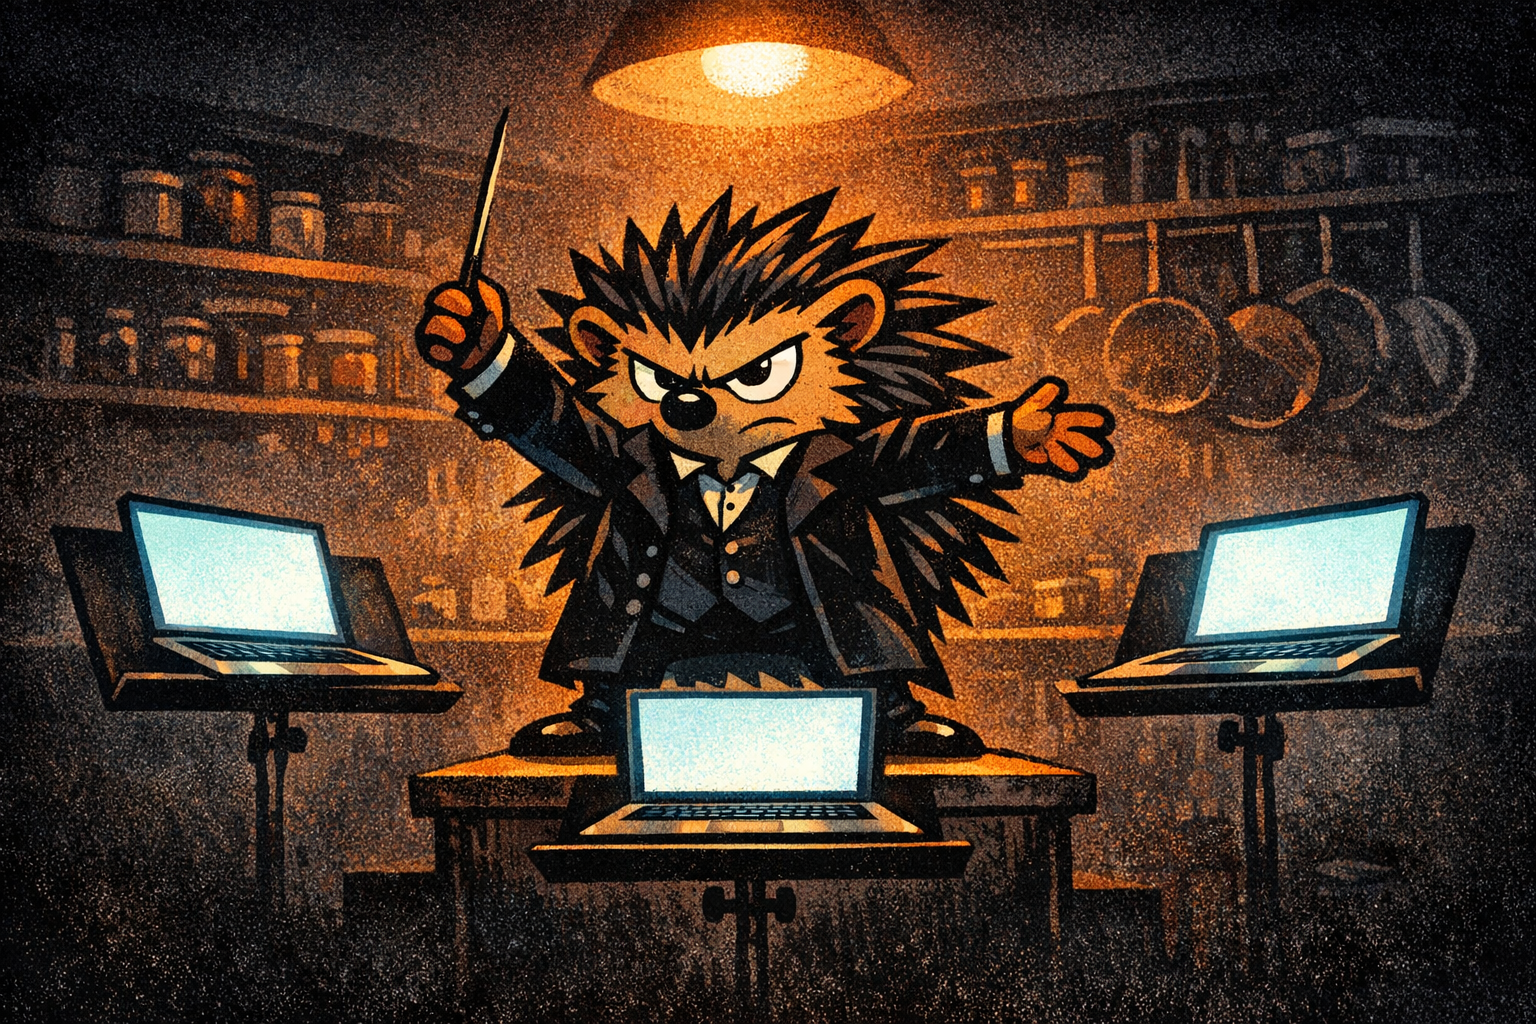
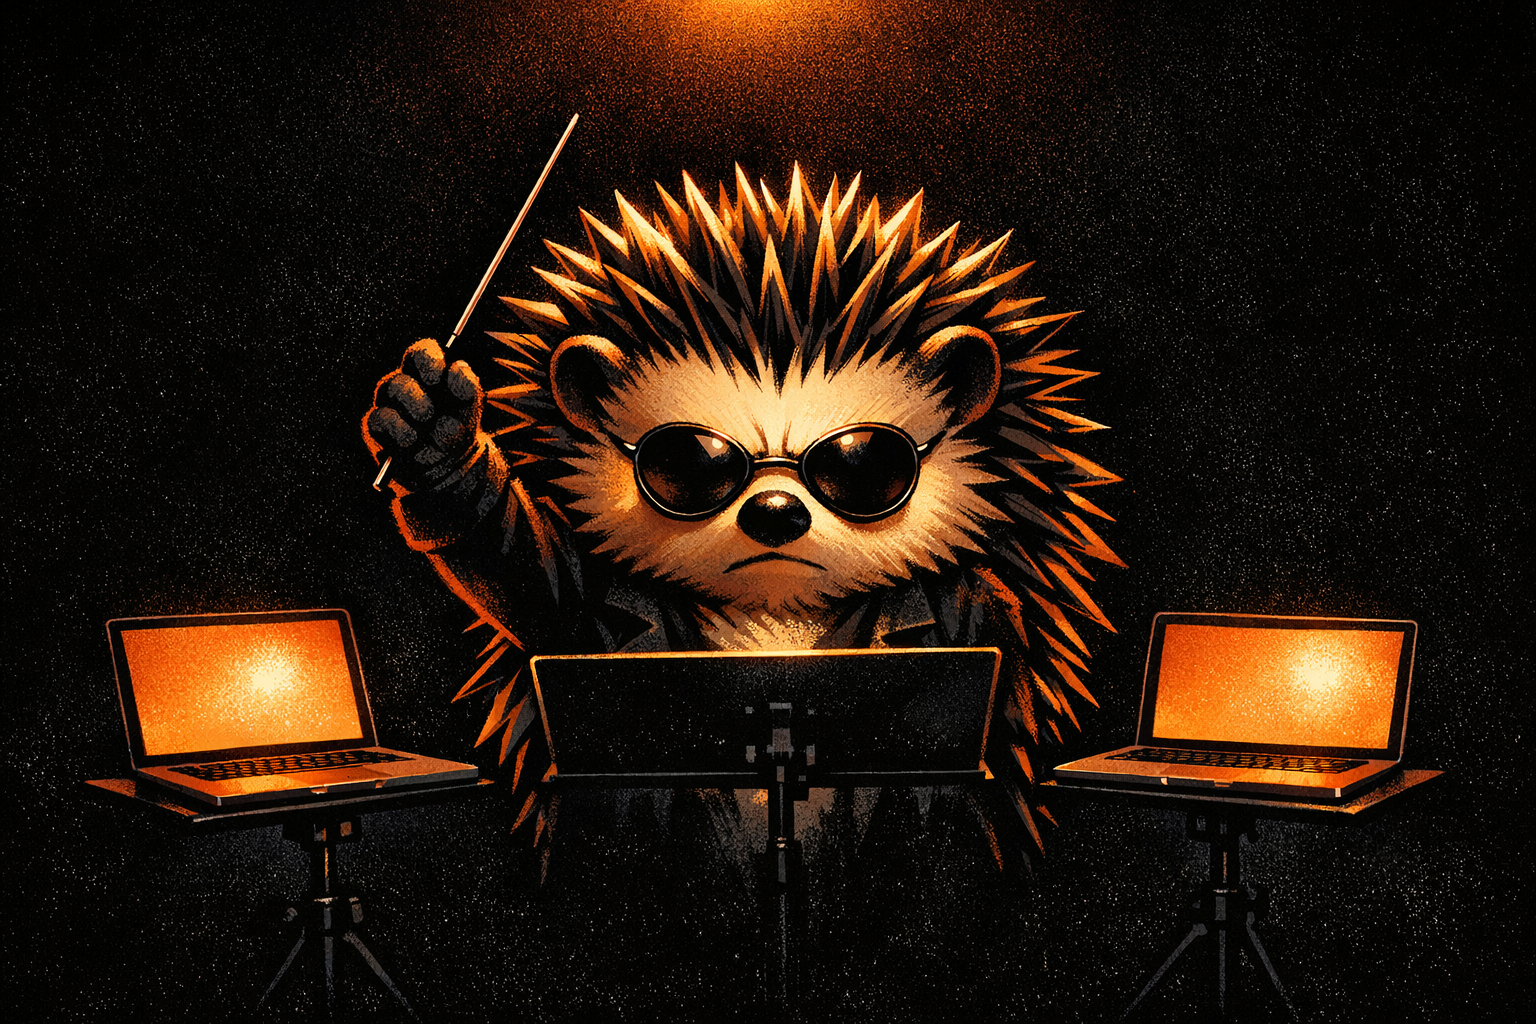
feat(guide): новый hero с референсом аватара + TL;DR-спойлер
Hero v4:
- использован референс docs/assets/preview/hog-avatar.png через --image=<path>
- фирменные чёрные очки, характерная форма — узнаваемый персонаж канала
- нейтральный editorial фон (не кухня, как просил Владимир)
- 3 ноутбука на пюпитрах — все видны
- warm orange rim-light сверху — magazine-cover feel

TL;DR-спойлер в начало:
- «Лень читать всё? TL;DR на 30 секунд» expandable
- Даёт выжимку решения в 6 пунктах
- Плюс «а если не лень — читай дальше» с интригой: 4 случая когда связка не нужна, 3 грабли установки, 5 сценариев, тренд
- Читатель получает сразу пользу + зацепку прочитать целиком

diff --git a/docs/knowledge/choose-agent.md b/docs/knowledge/choose-agent.md
@@ -10,7 +10,24 @@ tags:
 
 # Платишь за один ИИ — теряешь половину силы. Вот как собрать все три за те же деньги
 
-![Ёж-дирижёр за пультом с тремя пюпитрами — Claude, Codex, Gemini](../assets/preview/cover-hedgehog-conductor.png)
+![Ёж-дирижёр в чёрных очках с палочкой и тремя ноутбуками на пюпитрах — Claude, Codex, Gemini](../assets/preview/cover-hedgehog-conductor.png)
+
+??? abstract "Лень читать всё? TL;DR на 30 секунд 👇"
+    **Главный вывод, чтобы закрыть и не терять время:**
+
+    — «Claude **или** ChatGPT?» — неправильный вопрос. Правильный: **как собрать связку из 2-3 ИИ**.
+    — Плати не за одного «лучшего», а за **команду**. Ценник не выше ($40 на минимуме, $240 на максимуме) — и экономит отдельную подписку Midjourney (~$30/мес).
+    — **Claude Code** = дирижёр (держит проект в голове, 1M токенов).
+    — **Codex** в подписке ChatGPT Plus ($20) = картинки (gpt-image-1.5) + второе мнение от GPT-5. Без страха «сжечь токены».
+    — **Gemini** = видео, аудио, YouTube, Google-экосистема (бесплатный тир хватает).
+    — Склеивает их **MCP** — три команды в терминале, 15 минут настройки.
+
+    **А если не лень — читай дальше.** Там:
+    - Почему именно связка, а не «самый крутой» — и как на этом зарабатывают медиа
+    - **4 случая, когда связка НЕ твоя задача** (есть шанс что ты как раз там)
+    - 5 реальных сценариев из ежедневной работы, где связка экономит часы
+    - Подводные камни установки (три грабли, на которые наступает 95%)
+    - Куда это катится через год — и почему собирать стоит именно сейчас
 
 !!! abstract "Эта статья — для кого"
     Для тех, кто **уже пользуется хотя бы одним ИИ регулярно** и готов разобраться в паре команд в терминале. Если ты только что открыл ChatGPT в браузере — сначала [«Ты не кодишь — начни здесь»](no-code-start.md), там шаблоны промптов без установки. Вернёшься — эта статья подождёт.
